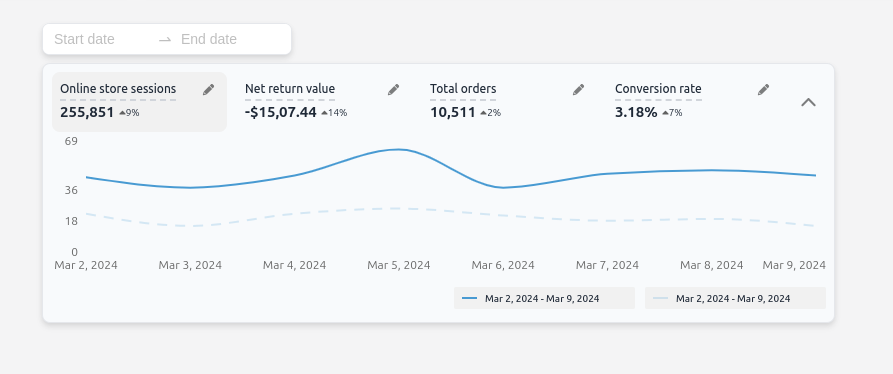
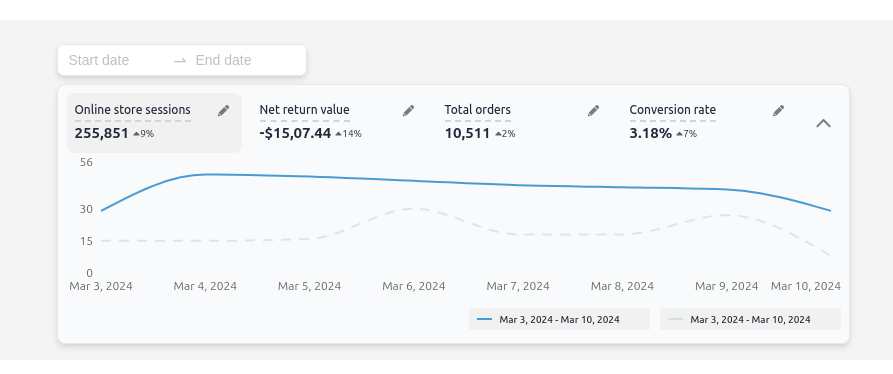
readme file content rewriting

diff --git a/src/pages/dashboard/index.tsx b/src/pages/dashboard/index.tsx
@@ -1,4 +1,4 @@
-import React, {useMemo, useState } from "react";
+import React, { useMemo, useState } from "react";
 import dayjs from "dayjs";
 import { CrudFilter, useList } from "@refinedev/core";
 import { IChartDatum, TTab } from "../../interfaces";
@@ -7,6 +7,7 @@ import { TabView } from "../../components/dashboard/TabView";
 export const Dashboard: React.FC = () => {
   const [fromDate, setFromDate] = useState("");
   const [toDate, setToDate] = useState("");
+
   const filters: CrudFilter[] = [
     {
       field: "start",
@@ -37,24 +38,28 @@ export const Dashboard: React.FC = () => {
   const useMemoizedChartData = (d: any, dailyOrders: any) => {
     return useMemo(() => {
       if (d?.data?.data?.length > 0 && dailyOrders?.data?.data?.length > 0) {
-        const formattedData1 = d?.data?.data?.map((item: IChartDatum) => ({
-          date: new Intl.DateTimeFormat("en-US", {
-            month: "short",
-            year: "numeric",
-            day: "numeric",
-          }).format(new Date(item.date)),
-          value: item?.value,
-        }));
+        const formattedData1 = d?.data?.data?.map((item: IChartDatum) => {
+          const formattedDate = dayjs(item?.date).format("MMM D, YYYY");
+          const currentDate = dayjs(formattedDate)
+            .add(1, "day")
+            .format("MMM D, YYYY");
+
+          return {
+            date: fromDate && toDate ? currentDate : formattedDate,
+            value: item?.value,
+          };
+        });
         const formattedData2 = dailyOrders?.data?.data?.map(
-          (item: IChartDatum) => ({
-            date:
-              new Intl.DateTimeFormat("en-US", {
-                month: "short",
-                year: "numeric",
-                day: "numeric",
-              }).format(new Date(item.date)) + 1,
-            value1: item?.value,
-          })
+          (item: IChartDatum) => {
+            const formattedDate = dayjs(item?.date).format("MMM D, YYYY");
+            const currentDate = dayjs(formattedDate)
+              .add(1, "day")
+              .format("MMM D, YYYY");
+            return {
+              date: fromDate && toDate ? currentDate : formattedDate,
+              value1: item?.value,
+            };
+          }
         );
 
         const mergedData = formattedData1?.map((item: any, index: number) => ({
@@ -71,6 +76,7 @@ export const Dashboard: React.FC = () => {
     newCustomers && dailyOrders && newCustomers,
     dailyOrders
   );
+
   const tabs: TTab[] = [
     {
       id: 1,

diff --git a/src/components/dashboard/TabView.tsx b/src/components/dashboard/TabView.tsx
@@ -56,7 +56,7 @@ export const TabView = ({
                 }}
               >
                 <div className="flex justify-between text-[12px] font-[500]">
-                  <Popover content={<HoverComponent />} placement="bottom">
+                  <Popover content={<HoverComponent title={tab?.label} />} placement="bottom">
                     <span className="border-b-2 border-dashed border-gray-300">
                       {tab?.label}
                     </span>
@@ -114,6 +114,12 @@ export const TabView = ({
             <div className="h-[32px] flex justify-end align-center items-center">
               <DateRangeDisplay
                 content={
+                  <span>
+                    {fromDate?fromDate:options[0]?.date} -{" "}
+                    {toDate?toDate:options[options?.length-1]?.date}
+                  </span>
+                }
+                content2={
                   <span>
                     {fromDate?fromDate:options[0]?.date} -{" "}
                     {toDate?toDate:options[options?.length-1]?.date}

diff --git a/src/components/dashboard/ResponsiveAreaChart.tsx b/src/components/dashboard/ResponsiveAreaChart.tsx
@@ -64,20 +64,20 @@ export const ResponsiveAreaChart = ({
           content={({ payload }) => {
             if (payload && payload.length > 0) {
               const { date } = payload[0].payload;
-
+              console.log(payload[0]?.payload);
               return (
                 <div className="custom-tooltip p-2 text-[12px] bg-white rounded-lg shadow-[0_3px_10px_rgb(0,0,0,0.2)] w-[180px]">
                   <DateRangeDisplay
                     content1={
                       <span>
                         {payload[0]?.payload?.date}&nbsp; &nbsp;{" "}
-                        {payload[0]?.payload?.value1}
+                        {payload[0]?.payload?.value}
                       </span>
                     }
                     content={
                       <span>
                         {payload[0]?.payload?.date}&nbsp; &nbsp;{" "}
-                        {payload[0]?.value}
+                        {payload[0]?.payload?.value1}
                       </span>
                     }
                     bg={false}

diff --git a/src/components/dashboard/DateRangeDisplay.tsx b/src/components/dashboard/DateRangeDisplay.tsx
@@ -5,9 +5,10 @@ type TProps = {
   content1?: ReactNode;
   bg:boolean;
   textColor:string
+  content2?:ReactNode
 
 };
-const DateRangeDisplay = ({ content,content1,bg,textColor }: TProps) => {
+const DateRangeDisplay = ({ content,content1,bg,textColor,content2 }: TProps) => {
   return (
     <>
       <div className={`flex w-[181px] h-[22px] mr-[10px] ${bg && 'bg-[#F1F1F1]'} rounded-[2px] items-center text-center text-[10px] font-[500] text-[${textColor}]`}>
@@ -16,7 +17,7 @@ const DateRangeDisplay = ({ content,content1,bg,textColor }: TProps) => {
       </div>
       <div className={`flex w-[181px] h-[22px] ${bg && 'bg-[#F1F1F1]'} rounded-[2px] items-center text-[10px] font-[500] text-[${textColor}]`}>
         <span className={`w-[15px] h-[2px] font-[800] bg-[rgba(72,154,210,0.2)] flex item-center m-2`}></span>
-        {content?content:content1}
+        {content1} {content2&&content2}
       </div>
     </>
   );

diff --git a/src/components/dashboard/HoverComponent.tsx b/src/components/dashboard/HoverComponent.tsx
@@ -1,7 +1,7 @@
-const HoverComponent = () => {
+const HoverComponent = ({title}:any) => {
   return (
     <>
-    <div className='text-[rgba(0,0,0,1)] font-[600] text-[14px]'>Online store sessions</div>
+    <div className='text-[rgba(0,0,0,1)] font-[600] text-[14px]'>{title}</div>
     <div className='text-[rgba(0,0,0,0.8)] font-[400] text-[13px]'>Your online store’s traffic volume, shown in sessions.</div></>
   )
 }

diff --git a/README.MD b/README.MD
@@ -1,27 +1,28 @@
-## About
+## Approach and Implementation
 
-This feature provides a graphical representation of various performance factors for an online store. These factors include:
+By making use of RangePicker component provided by the Ant Design library implemented dateRange picker to filter out the response based on selected daterange.
 
-1.Online store sessions
-2.Return values
-3.Total orders
-4.Conversion rate
-Users can analyze the performance within a specified date range selected using the RangePicker component from the Ant Design library.
+Recharts was utilized for graphical representation, Additionally, it facilitated the implementation of interactive features like tooltips, allowing users to view detailed information when hovering over data points.
 
-About DaisyUI and TailwindCSS
+The antd Popover component was used to view the title and description of the tab by hovering over the title and edit icon.
+
+Usage of DaisyUI and TailwindCSS
 
 This feature is built using TailwindCSS-based component templates provided by DaisyUI. DaisyUI offers a library of component templates that utilize shorter, semantic class names derived from standard TailwindCSS classes. These classes also include responsive, color, size, and shape variants, enhancing the ease of styling markup elements and improving the clarity of React code.
 
 Additionally, DaisyUI allows for the overriding and extension of its classes, providing flexibility in styling. Furthermore, it supports the usage of regular TailwindCSS classes alongside its templates.
 
-Usage
 
-To utilize this feature:
+Usage To utilize this feature:
 
 1.Ensure you have the necessary dependencies installed, including React, Ant Design, TailwindCSS, and DaisyUI.
 2.Incorporate the provided components and templates into your React application.
 3.Customize and extend the styles using DaisyUI's semantic class names and TailwindCSS classes as needed.
 4.Integrate the performance overview dashboard into your application, allowing users to analyze key metrics within specified date ranges.
+
+## Code Re-usability
+
+Implemented a single component to display the "from" and "to" dates along with the wave colors, which are utilized at the bottom of the graph and in the graph tooltip. The tab data is rendered through an array of objects, eliminating the need to rewrite redundant code multiple times. Reduced unnecessary API calls, optimizing code efficiency through this approach.
 
 ## Quick Start
 
